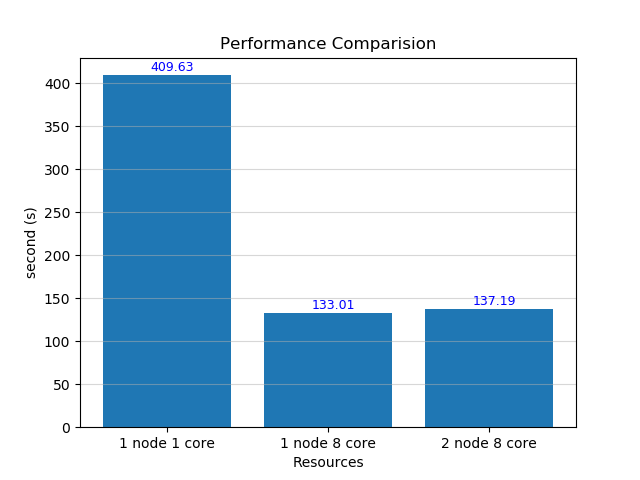
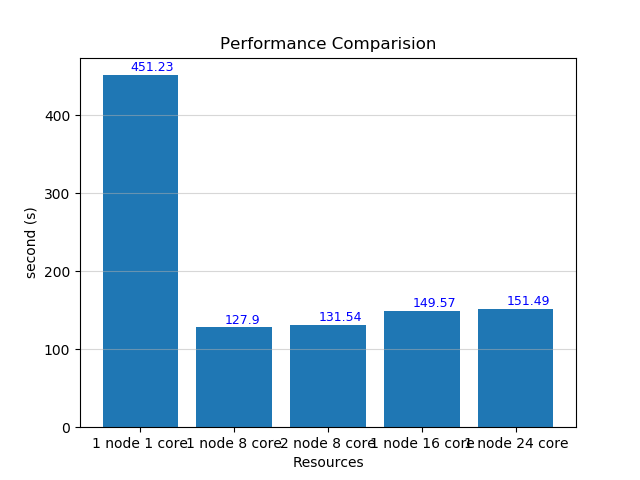
add slurms

diff --git a/src/main.py b/src/main.py
@@ -72,23 +72,30 @@ def main(country_code_file_path, twitter_data_path):
     # a) concurrent calculating top n hash_tags, languages used
     if comm_size > 1:
         # 1) merge Counter from each processor
+        # reduced_language_code_count = comm.reduce(language_code_count, root=0, op=operator.add)
+        # reduced_hash_tag_count = comm.reduce(hash_tag_count, root=0, op=operator.add)
+        # # 2) split merged to each processor
+        # if comm_rank == 0:
+        #     split_language_code_np_array = np.array_split(list(reduced_language_code_count.items()), comm_size)
+        #     split_hash_tag_np_array = np.array_split(list(reduced_hash_tag_count.items()), comm_size)
+        # else:
+        #     split_language_code_np_array = None
+        #     split_hash_tag_np_array = None
+        #
+        # # 3) scatter merged to each processor
+        # local_language_code = list(map(lambda x: (x[0], int(x[1])), comm.scatter(split_language_code_np_array, root=0)))
+        # local_hash_tag = list(map(lambda x: (x[0], int(x[1])), comm.scatter(split_hash_tag_np_array, root=0)))
+        #
+        # # 4) merge each processor's top n calculation result
+        # reduced_language_code_count = comm.reduce(heapq.nlargest(n, local_language_code, lambda x: x[1]), root=0, op=merge_list)
+        # reduced_hash_tag_count = comm.reduce(heapq.nlargest(n, local_hash_tag, lambda x: x[1]), root=0, op=merge_list)
+
         reduced_language_code_count = comm.reduce(language_code_count, root=0, op=operator.add)
         reduced_hash_tag_count = comm.reduce(hash_tag_count, root=0, op=operator.add)
-        # 2) split merged to each processor
         if comm_rank == 0:
-            split_language_code_np_array = np.array_split(list(reduced_language_code_count.items()), comm_size)
-            split_hash_tag_np_array = np.array_split(list(reduced_hash_tag_count.items()), comm_size)
-        else:
-            split_language_code_np_array = None
-            split_hash_tag_np_array = None
+            reduced_hash_tag_count = hash_tag_count.most_common(n)
+            reduced_language_code_count = language_code_count.most_common(n)
 
-        # 3) scatter merged to each processor
-        local_language_code = list(map(lambda x: (x[0], int(x[1])), comm.scatter(split_language_code_np_array, root=0)))
-        local_hash_tag = list(map(lambda x: (x[0], int(x[1])), comm.scatter(split_hash_tag_np_array, root=0)))
-
-        # 4) merge each processor's top n calculation result
-        reduced_language_code_count = comm.reduce(heapq.nlargest(n, local_language_code, lambda x: x[1]), root=0, op=merge_list)
-        reduced_hash_tag_count = comm.reduce(heapq.nlargest(n, local_hash_tag, lambda x: x[1]), root=0, op=merge_list)
     # b) single processor calculating top n
     else:
         reduced_hash_tag_count = hash_tag_count.most_common(n)

diff --git a/src/analysis/analysis.py b/src/analysis/analysis.py
@@ -64,10 +64,15 @@ def draw_bar_chart(file_name: str):
     x.append("2 node 8 core")
     y.append(run_time)
 
-    # two_node_8_core_file_path = DATA_DIR + "n_cores/1node16core-physical" + DATA_FILE_TYPE
-    # run_time, read_country_code_file_time, process_time, calculate_top_n_time = read_txt(two_node_8_core_file_path)
-    # x.append("1 node 16 core")
-    # y.append(run_time)
+    one_node_16_core_file_path = DATA_DIR + "n_cores/1node16core-physical" + DATA_FILE_TYPE
+    run_time, read_country_code_file_time, process_time, calculate_top_n_time = read_txt(one_node_16_core_file_path)
+    x.append("1 node 16 core")
+    y.append(run_time)
+
+    one_node_24_core_file_path = DATA_DIR + "n_cores/1node24core-physical" + DATA_FILE_TYPE
+    run_time, read_country_code_file_time, process_time, calculate_top_n_time = read_txt(one_node_24_core_file_path)
+    x.append("1 node 24 core")
+    y.append(run_time)
 
     plt.grid(True, axis='y', alpha=0.5)
     plt.bar(range(len(x)), y, tick_label=x)
